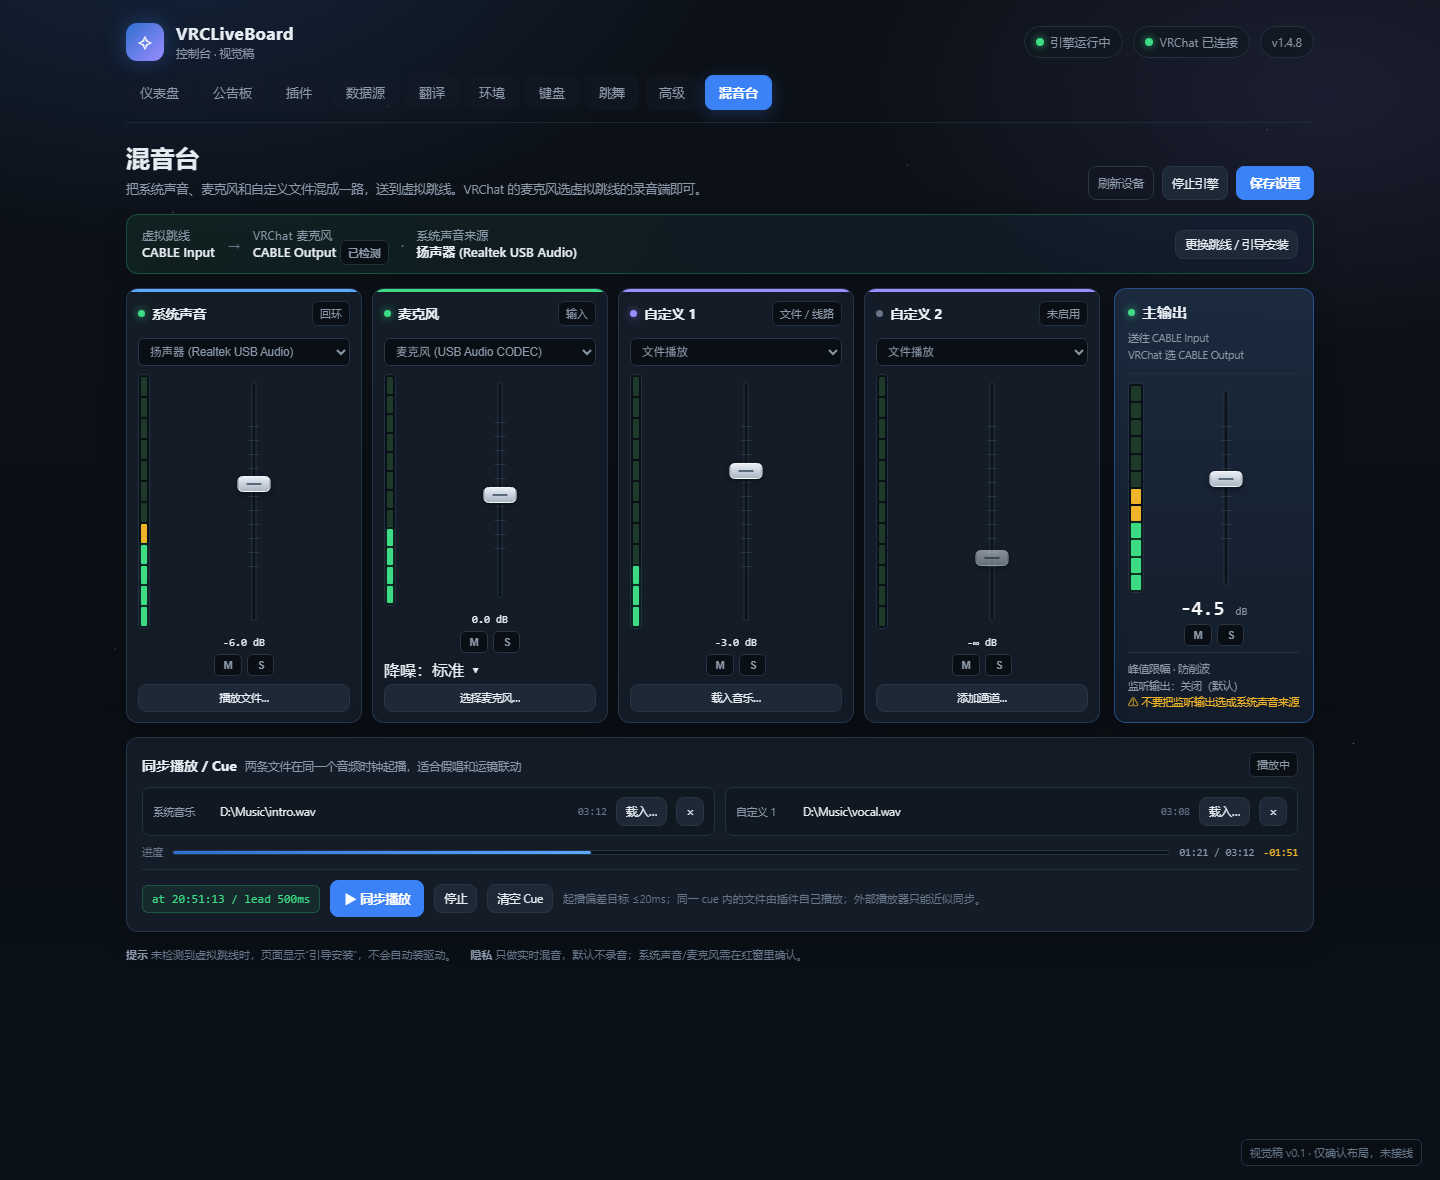
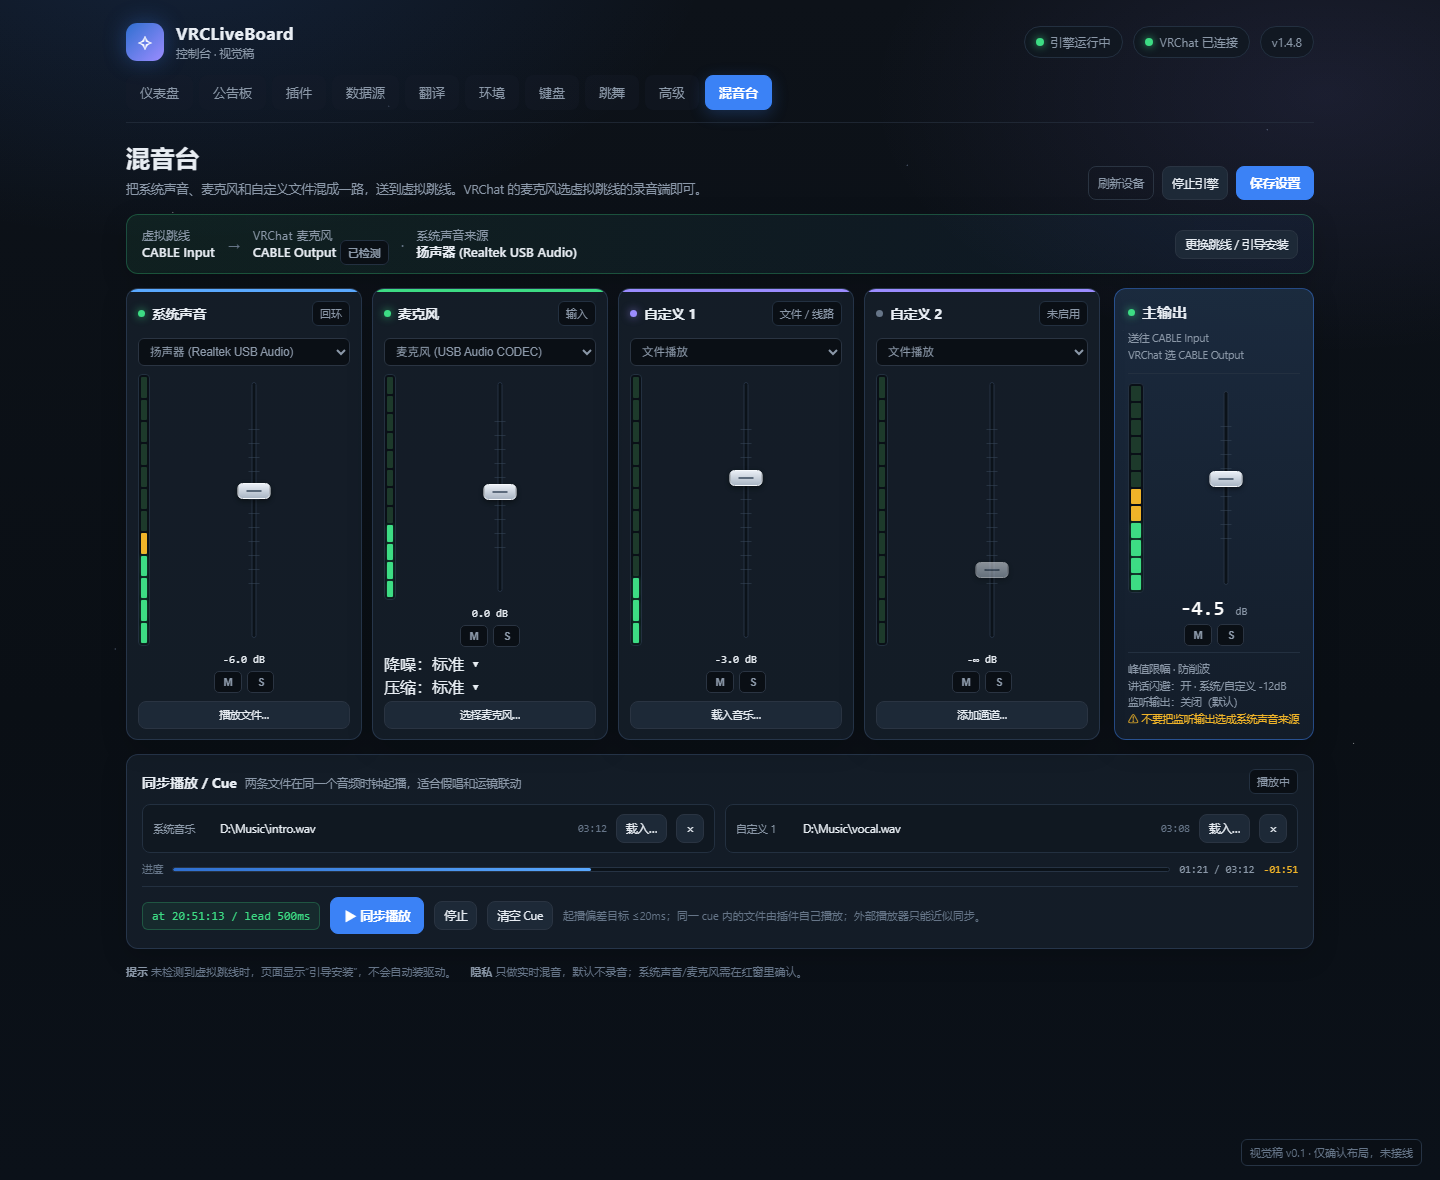
docs(feature): 增加 mic 动态压缩与讲话闪避设计
压缩只处理 mic 电平; ducking 用 mic 侧链压低 system/custom, 不压 mic; 预设 音乐/说话/弹唱; 默认阈值 -35dB/深度 -12dB/attack30/release300/hold400; API channel.set compressor + ducking.set + preset.apply; 视觉稿 mic 卡显示降噪/压缩, master 显示闪避.

diff --git a/docs/FEATURES/assets/virtual-mixer-mockup-b-vu.html b/docs/FEATURES/assets/virtual-mixer-mockup-b-vu.html
@@ -70,7 +70,7 @@ body:before{content:'';position:fixed;inset:0;pointer-events:none;opacity:.5;bac
   </div>
   <div class="card strip mic">
     <div class="strip-head"><i class="dot"></i><b>麦克风</b><span class="badge">输入</span><span class="send">→ 送跳线</span></div>
-    <div class="stripbody"><div class="analog"><div class="vu" data-vu="mic" data-level="-14"></div><div class="vu-foot"><b>VU</b><span class="peak">PEAK</span></div></div><div class="controls"><select><option>麦克风 (USB Audio CODEC)</option></select><div class="faderline"><span class="trackline"><i class="fill" style="width:55%"></i><i class="knob" style="left:55%"></i></span><span class="db">0.0 dB</span></div><div class="msrow"><button>M</button><button>S</button><span class="db2">L / R</span></div><div class="filebtn">降噪：标准 ▾</div><div class="filebtn">选择麦克风…</div></div></div>
+    <div class="stripbody"><div class="analog"><div class="vu" data-vu="mic" data-level="-14"></div><div class="vu-foot"><b>VU</b><span class="peak">PEAK</span></div></div><div class="controls"><select><option>麦克风 (USB Audio CODEC)</option></select><div class="faderline"><span class="trackline"><i class="fill" style="width:55%"></i><i class="knob" style="left:55%"></i></span><span class="db">0.0 dB</span></div><div class="msrow"><button>M</button><button>S</button><span class="db2">L / R</span></div><div class="filebtn">降噪：标准 ▾</div><div class="filebtn">压缩：标准 ▾</div><div class="filebtn">选择麦克风…</div></div></div>
   </div>
   <div class="card strip custom">
     <div class="strip-head"><i class="dot" style="background:var(--violet)"></i><b>自定义 1</b><span class="badge">文件 / 线路</span><span class="send">→ 送跳线</span></div>
@@ -81,7 +81,7 @@ body:before{content:'';position:fixed;inset:0;pointer-events:none;opacity:.5;bac
     <div class="stripbody"><div class="analog"><div class="vu" data-vu="custom2" data-level="-30"></div><div class="vu-foot"><b>VU</b><span class="peak" style="opacity:.45">PEAK</span></div></div><div class="controls"><select><option>文件播放</option><option>线路输入</option></select><div class="faderline"><span class="trackline"><i class="fill" style="width:12%"></i><i class="knob" style="left:12%"></i></span><span class="db">-∞ dB</span></div><div class="msrow"><button>M</button><button>S</button><span class="db2">L / R</span></div><div class="filebtn">添加通道…</div></div></div>
   </div>
 </div>
-<aside class="card master"><div class="strip-head"><i class="dot"></i><b>主输出</b></div><div class="out">送往 CABLE Input<br>VRChat 选 CABLE Output</div><div class="masteranalog"><div class="vu" data-vu="master" data-level="-6"></div><div class="masterlabel">MASTER</div></div><div class="bigdb">-4.5 <span>dB</span></div><div class="faderline"><span class="trackline"><i class="fill" style="width:70%"></i><i class="knob" style="left:70%"></i></span></div><div class="msrow" style="justify-content:center"><button>M</button><span style="font-size:10px;color:var(--faint)">主输出静音</span></div><div class="safe">峰值限幅 · 防削波<br>监听输出：关闭（默认）<br><span style="color:var(--warn)">⚠ 不要把监听输出选成系统声音来源</span></div></aside>
+<aside class="card master"><div class="strip-head"><i class="dot"></i><b>主输出</b></div><div class="out">送往 CABLE Input<br>VRChat 选 CABLE Output</div><div class="masteranalog"><div class="vu" data-vu="master" data-level="-6"></div><div class="masterlabel">MASTER</div></div><div class="bigdb">-4.5 <span>dB</span></div><div class="faderline"><span class="trackline"><i class="fill" style="width:70%"></i><i class="knob" style="left:70%"></i></span></div><div class="msrow" style="justify-content:center"><button>M</button><span style="font-size:10px;color:var(--faint)">主输出静音</span></div><div class="safe">峰值限幅 · 防削波<br>讲话闪避：开 · 系统/自定义 -12dB<br>监听输出：关闭（默认）<br><span style="color:var(--warn)">⚠ 不要把监听输出选成系统声音来源</span></div></aside>
 </div>
 <div class="card cue"><div class="cue-head"><div><b>同步播放 / Cue</b><span class="sub">两条文件在同一个音频时钟起播，适合假唱和运镜联动</span></div><span class="badge">播放中</span></div><div class="cuerows"><div class="cuerow"><span class="tag">系统音乐</span><span class="fname">D:\Music\intro.wav</span><span class="dur">03:12</span><button class="btn small">载入…</button><button class="btn small" title="清除这个文件">×</button></div><div class="cuerow"><span class="tag">自定义 1</span><span class="fname">D:\Music\vocal.wav</span><span class="dur">03:08</span><button class="btn small">载入…</button><button class="btn small" title="清除这个文件">×</button></div></div><div class="cueprogress"><span>进度</span><div class="pbar"><i class="pfill"></i></div><span class="pnum">01:21 / 03:12</span><span class="cd">-01:51</span></div><div class="cuefoot"><span class="time">at 21:03:00 / lead 500ms</span><button class="btn pri">▶ 同步播放</button><button class="btn small">停止</button><button class="btn small">清空 Cue</button><span class="hint">起播偏差目标 ≤20ms；同一 cue 内的文件由插件自己播放；外部播放器只能近似同步。</span></div></div>
 <div class="foot"><span><b>提示</b> 机械 VU 是风格化反馈，数字 dB 仍保留；未检测到虚拟跳线时显示“引导安装”。</span><span><b>隐私</b> 只做实时混音，默认不录音；系统声音/麦克风需在红窗里确认。</span></div>

diff --git a/docs/FEATURES/assets/virtual-mixer-mockup.html b/docs/FEATURES/assets/virtual-mixer-mockup.html
@@ -148,7 +148,7 @@ body:before{content:'';position:fixed;inset:0;pointer-events:none;opacity:.5;bac
         <select class="src"><option>麦克风 (USB Audio CODEC)</option><option>麦克风阵列 (网易虚拟音频设备)</option></select>
         <div class="meterrow"><div class="meter"><i class="mseg hot"></i><i class="mseg hot"></i><i class="mseg hot"></i><i class="mseg hot"></i><i class="mseg"></i><i class="mseg"></i><i class="mseg"></i><i class="mseg"></i><i class="mseg"></i><i class="mseg"></i><i class="mseg"></i><i class="mseg"></i></div><div class="fader"><div class="track"></div><div class="knob" style="top:52%"></div></div></div>
         <div class="db">0.0 dB</div><div class="ms"><button>M</button><button>S</button></div>
-        <div class="filebtn">降噪：标准 ▾</div><div class="chfile"><button class="btn small">选择麦克风…</button></div>
+        <div class="filebtn">降噪：标准 ▾</div><div class="filebtn">压缩：标准 ▾</div><div class="chfile"><button class="btn small">选择麦克风…</button></div>
       </div>
       <div class="card strip custom">
         <div class="strip-head"><i class="dot" style="background:var(--violet);box-shadow:0 0 8px rgba(155,140,255,.7)"></i><b>自定义 1</b><span class="badge" style="margin-left:auto">文件 / 线路</span></div>
@@ -172,7 +172,7 @@ body:before{content:'';position:fixed;inset:0;pointer-events:none;opacity:.5;bac
       <div class="meterrow"><div class="meter"><i class="mseg hot"></i><i class="mseg hot"></i><i class="mseg hot"></i><i class="mseg hot"></i><i class="mseg hot2"></i><i class="mseg hot2"></i><i class="mseg"></i><i class="mseg"></i><i class="mseg"></i><i class="mseg"></i><i class="mseg"></i><i class="mseg"></i></div><div class="fader"><div class="track"></div><div class="knob" style="top:46%"></div></div></div>
       <div class="bigdb">-4.5 <span style="font-size:11px;color:var(--muted)">dB</span></div>
       <div class="ms"><button>M</button><button>S</button></div>
-      <div class="safe">峰值限幅 · 防削波<br>监听输出：关闭（默认）<br><span style="color:var(--warn)">⚠ 不要把监听输出选成系统声音来源</span></div>
+      <div class="safe">峰值限幅 · 防削波<br>讲话闪避：开 · 系统/自定义 -12dB<br>监听输出：关闭（默认）<br><span style="color:var(--warn)">⚠ 不要把监听输出选成系统声音来源</span></div>
     </aside>
   </div>
 

diff --git a/docs/FEATURES/F-20261123-01-虚拟混音台.md b/docs/FEATURES/F-20261123-01-虚拟混音台.md
@@ -17,6 +17,7 @@
 | 提供一个虚拟音频线路输入，作为游戏内麦克风输入 | 插件把混音结果输出到**一根虚拟音频线的播放端**；VRChat 麦克风选它的录音端 | **D1**: 接受“用户安装一根虚拟音频线（VB-CABLE 即可）”吗？ |
 | 设置里三个或更多虚拟输出通道：系统 / 麦克风 / 自定义 | 3 条内部混音 strip（可扩到 8 条），每条可独立选择“是否送入虚拟跳线”；master 合并后送往 VRChat 麦克风 | **D2 已确认**: 不是三个独立 Windows 设备，而是三路可选的混音通道 |
 | 麦克风通道需要降噪 | 只在 mic 通道插入降噪链；system/custom 完全旁路；VRChat 自带 NS 可关闭 | 新增需求，推荐方案见 §1.8 |
+| 讲话时自动压低音乐，防止听不清 | 麦克风侧链 **ducking**：mic 电平触发，按目标通道/深度/释放时间压低系统/自定义；另加 mic 动态压缩 | 新增需求，推荐方案见 §1.9 |
 | 类似 OBS 混音台 | 控制台新增“混音台”页：推子、电平、静音、独奏、输出选择 | **D4**: 接受主程序新增页面吗？ |
 | 直播时方便控制声音、假唱效果 | 系统声/麦克风/自定义文件可独立混音；cue 同步启动两轨文件 | **D3**: 两个文件由插件自己播放吗？ |
 | 执行运镜时系统放音乐 A，同时插件声道放文件 B | cue：同一 `at` 时间戳内多条 action，共用音频时钟；camera-path 通过内部 API 调 `cue` | 需要确认是否允许新增 `ctx.plugins.call` 小桥 |
@@ -71,6 +72,14 @@ VRChat 主播/整活用户：希望把「系统正在播放的声音」「自己
 | `.micCaptureDevice` | 默认录音设备 | 物理麦克风输入 |
 | `.channels.mic.denoise` | `off` | 麦克风专用降噪挡位: off / light / standard / strong（只作用于 mic 通道） |
 | `.channels.mic.highPassHz` | 80 | 麦克风高通滤波截止频率；降低桌面震动/喷麦低频 |
+| `.channels.mic.compressor` | `off` | 麦克风动态压缩挡位: off / light / standard |
+| `.ducking.enabled` | false | 讲话时自动压低指定通道 |
+| `.ducking.targets` | `["system","custom-1"]` | 闪避目标；**不包含 mic**，默认压音乐/自定义 |
+| `.ducking.depthDb` | -12 | 闪避深度（负值，越大越明显） |
+| `.ducking.thresholdDb` | -35 | mic 侧链触发阈值 |
+| `.ducking.attackMs` | 30 | 起压时间（短=反应快） |
+| `.ducking.releaseMs` | 300 | 释放时间（长=不抽吸） |
+| `.ducking.holdMs` | 400 | 讲话停顿保持，避免尾音刚出就回升 |
 | `.channels` | 3 条 | `system` / `mic` / `custom-1`，可加 `custom-2..8` |
 | `.channels[].gainDb` | 0/-6 等 | 每条通道增益 |
 | `.channels[].muted` | false | 静音 |
@@ -147,6 +156,45 @@ VRChat 主播/整活用户：希望把「系统正在播放的声音」「自己
 
 **API/配置**：`channel.set` 增加 `denoise`（仅 mic 有效）；`status` 回 `channels.mic.denoise`；Cue 暂不自动切换挡位（需要时可加 cue action）。
 
+### 1.9 人声处理: 动态压缩 + 讲话闪避（2026-11-24 新增，推荐）
+
+**先分清两个东西：**
+
+- **动态压缩（compressor）**：只处理麦克风自己的电平，把忽大忽小的说话/唱歌压得更稳、防削波，不会压低音乐。
+- **讲话闪避（ducking / sidechain）**：用麦克风电平做触发，自动把**指定的其它通道**（系统音乐、自定义文件）压低，让人声听得清。
+
+两者都建议有，但不是同一个开关：压缩解决“麦克风自己忽大忽小”，闪避解决“音乐盖住讲话”。
+
+**推荐行为**：
+
+| 预设 | mic 降噪 | mic 压缩 | 讲话闪避 | 适用 |
+| --- | --- | --- | --- | --- |
+| 音乐 | off | off | off | 纯放音乐/听歌 |
+| 说话 | standard | standard | **on** | 直播说话，音乐自动让路 |
+| 弹唱 | light | light | **off**（或仅自定义伴奏让路） | 唱歌时不要压掉伴奏 |
+
+**闪避参数（默认建议）**：
+
+- 目标：仅 `system` + `custom-1`，**不允许选择 mic**；用户可勾选哪些通道让路。
+- 深度：`-12 dB`（可调 -3～-24）；阈值 `-35 dBFS`；attack `30ms`、release `300ms`、hold `400ms`。
+- 检测点：mic 经过降噪/门限后的包络；mic 静音或低于阈值不触发。
+- 释放/hold 必须够长，避免一句话停顿就“抽吸”回升；闪避只作用于送虚拟跳线的混音，master limiter 在闪避之后。
+
+**压缩参数（建议只暴露“轻/标准”两档，不暴露复杂旋钮）**：
+
+- 轻：阈值约 -18 dBFS、ratio 2:1、attack 10ms、release 150ms，适合弹唱。
+- 标准：阈值约 -24 dBFS、ratio 3:1、attack 5ms、release 120ms，适合说话。
+- makeup 自动补偿，但不得超过 master 限幅；过压缩会抬高底噪，必须与降噪配合。
+- 压缩在 `HPF → 降噪 → 压缩 → 混音` 链路；闪避检测在压缩之后、混音之前。
+
+**API/配置**：`channel.set` 增加 mic 的 `compressor`；新增 `ducking.set` 与 `preset.apply`；`status` 回 `mic.compressor` 与 `ducking` 实际参数。
+
+**验收**：
+
+- 说话时开闪避：系统音乐在 100ms 内明显降低，停顿约 400ms 后平滑恢复；无“抽吸”爆音。
+- 弹唱预设关闭闪避：伴奏不被 mic 误压；压缩只让 mic 峰值更稳。
+- 系统/自定义通道在不闪避时不改变波形；只在被选为目标时衰减。
+- 与 VRChat 自带 NS/AGC 同时开启时，文档提示优先只用一边，避免双重处理。
 ## 2. 四张契约(D1，建议稿)
 
 ### 2.1 API 契约（插件方法）
@@ -156,8 +204,10 @@ VRChat 主播/整活用户：希望把「系统正在播放的声音」「自己
 | `status` | 无 | `{ok, engine, channels, devices, cue}` | 页面轮询 |
 | `devices` | 无 | `{render:[], capture:[]}` | 设备列表，含友好名/ID |
 | `configure` | `{masterOutputDevice?, systemCaptureDevice?, micCaptureDevice?, monitorOutputDevice?}` | `{ok}` | 保存并热切换 |
-| `channel.set` | `{id, gainDb?, muted?, solo?, denoise?}` | `{ok, channel}` | 推子/静音/独奏；`denoise` 仅 mic 有效 |
+| `channel.set` | `{id, gainDb?, muted?, solo?, denoise?, compressor?}` | `{ok, channel}` | 推子/静音/独奏；`denoise`/`compressor` 仅 mic 有效 |
 | `master.set` | `{gainDb?, muted?}` | `{ok}` | 主输出 |
+| `ducking.set` | `{enabled?, targets?, depthDb?, thresholdDb?, attackMs?, releaseMs?, holdMs?}` | `{ok, ducking}` | 讲话闪避参数 |
+| `preset.apply` | `{name:"music"\|"speech"\|"sing"}` | `{ok, preset}` | 一键切换场景预设 |
 | `file.load` | `{channel, path, loop?, gainDb?}` | `{ok, durationMs}` | 只允许 `musicDir` 内、音频扩展名 |
 | `file.play` | `{channel}` | `{ok, startedAt}` | 立即播放 |
 | `file.stop` | `{channel}` | `{ok}` | 停止并释放文件 |
@@ -241,7 +291,7 @@ VRChat 主播/整活用户：希望把「系统正在播放的声音」「自己
 ## 4. 切片计划（确认后执行）
 
 - [ ] S1 引擎骨架 + 设备枚举 + 文件播放/混音（无采集），离线 selftest + 输出 WAV 验证。
-- [ ] S2 系统回环 + 麦克风采集 + 通道增益/静音/独奏/limiter；mic 降噪插槽(off/light/standard/strong)；异常恢复。
+- [ ] S2 系统回环 + 麦克风采集 + 通道增益/静音/独奏/limiter；mic 降噪插槽(off/light/standard/strong)；mic 压缩与 sidechain ducking；异常恢复。
 - [ ] S3 虚拟声卡检测/向导 + VRChat 麦克风路由 + 控制台“混音台”页面（主程序 UI 改动）。
 - [ ] S3a A 通道条布局（数字表/数字推子）。
 - [ ] S3b B-VU 布局（机械表 + 数字兜底）与布局切换持久化。
@@ -291,7 +341,7 @@ VRChat 主播/整活用户：希望把「系统正在播放的声音」「自己
 ![混音台视觉稿 A](assets/virtual-mixer-mockup-a.png)
 
 - 4 条通道条并排：系统声音 / 麦克风 / 自定义 1 / 自定义 2；右侧固定主输出。
-- 每条通道：来源下拉、电平表、竖向推子、dB 读数、M/S、文件/设备按钮；每路可独立选择“送跳线/仅监听”；**mic 通道额外显示降噪挡位**（关/轻/标准/强）。
+- 每条通道：来源下拉、电平表、竖向推子、dB 读数、M/S、文件/设备按钮；每路可独立选择“送跳线/仅监听”；**mic 通道额外显示降噪/压缩挡位**，master 显示讲话闪避状态。
 - 顶部一条“虚拟跳线 CABLE Input → VRChat CABLE Output”路由条，一眼确认链路。
 - 底部同步播放/Cue：两行文件（每行可 `×` 清除）+ `at / lead 500ms` + 同步播放/停止/清空 Cue + 进度/倒计时。
 
